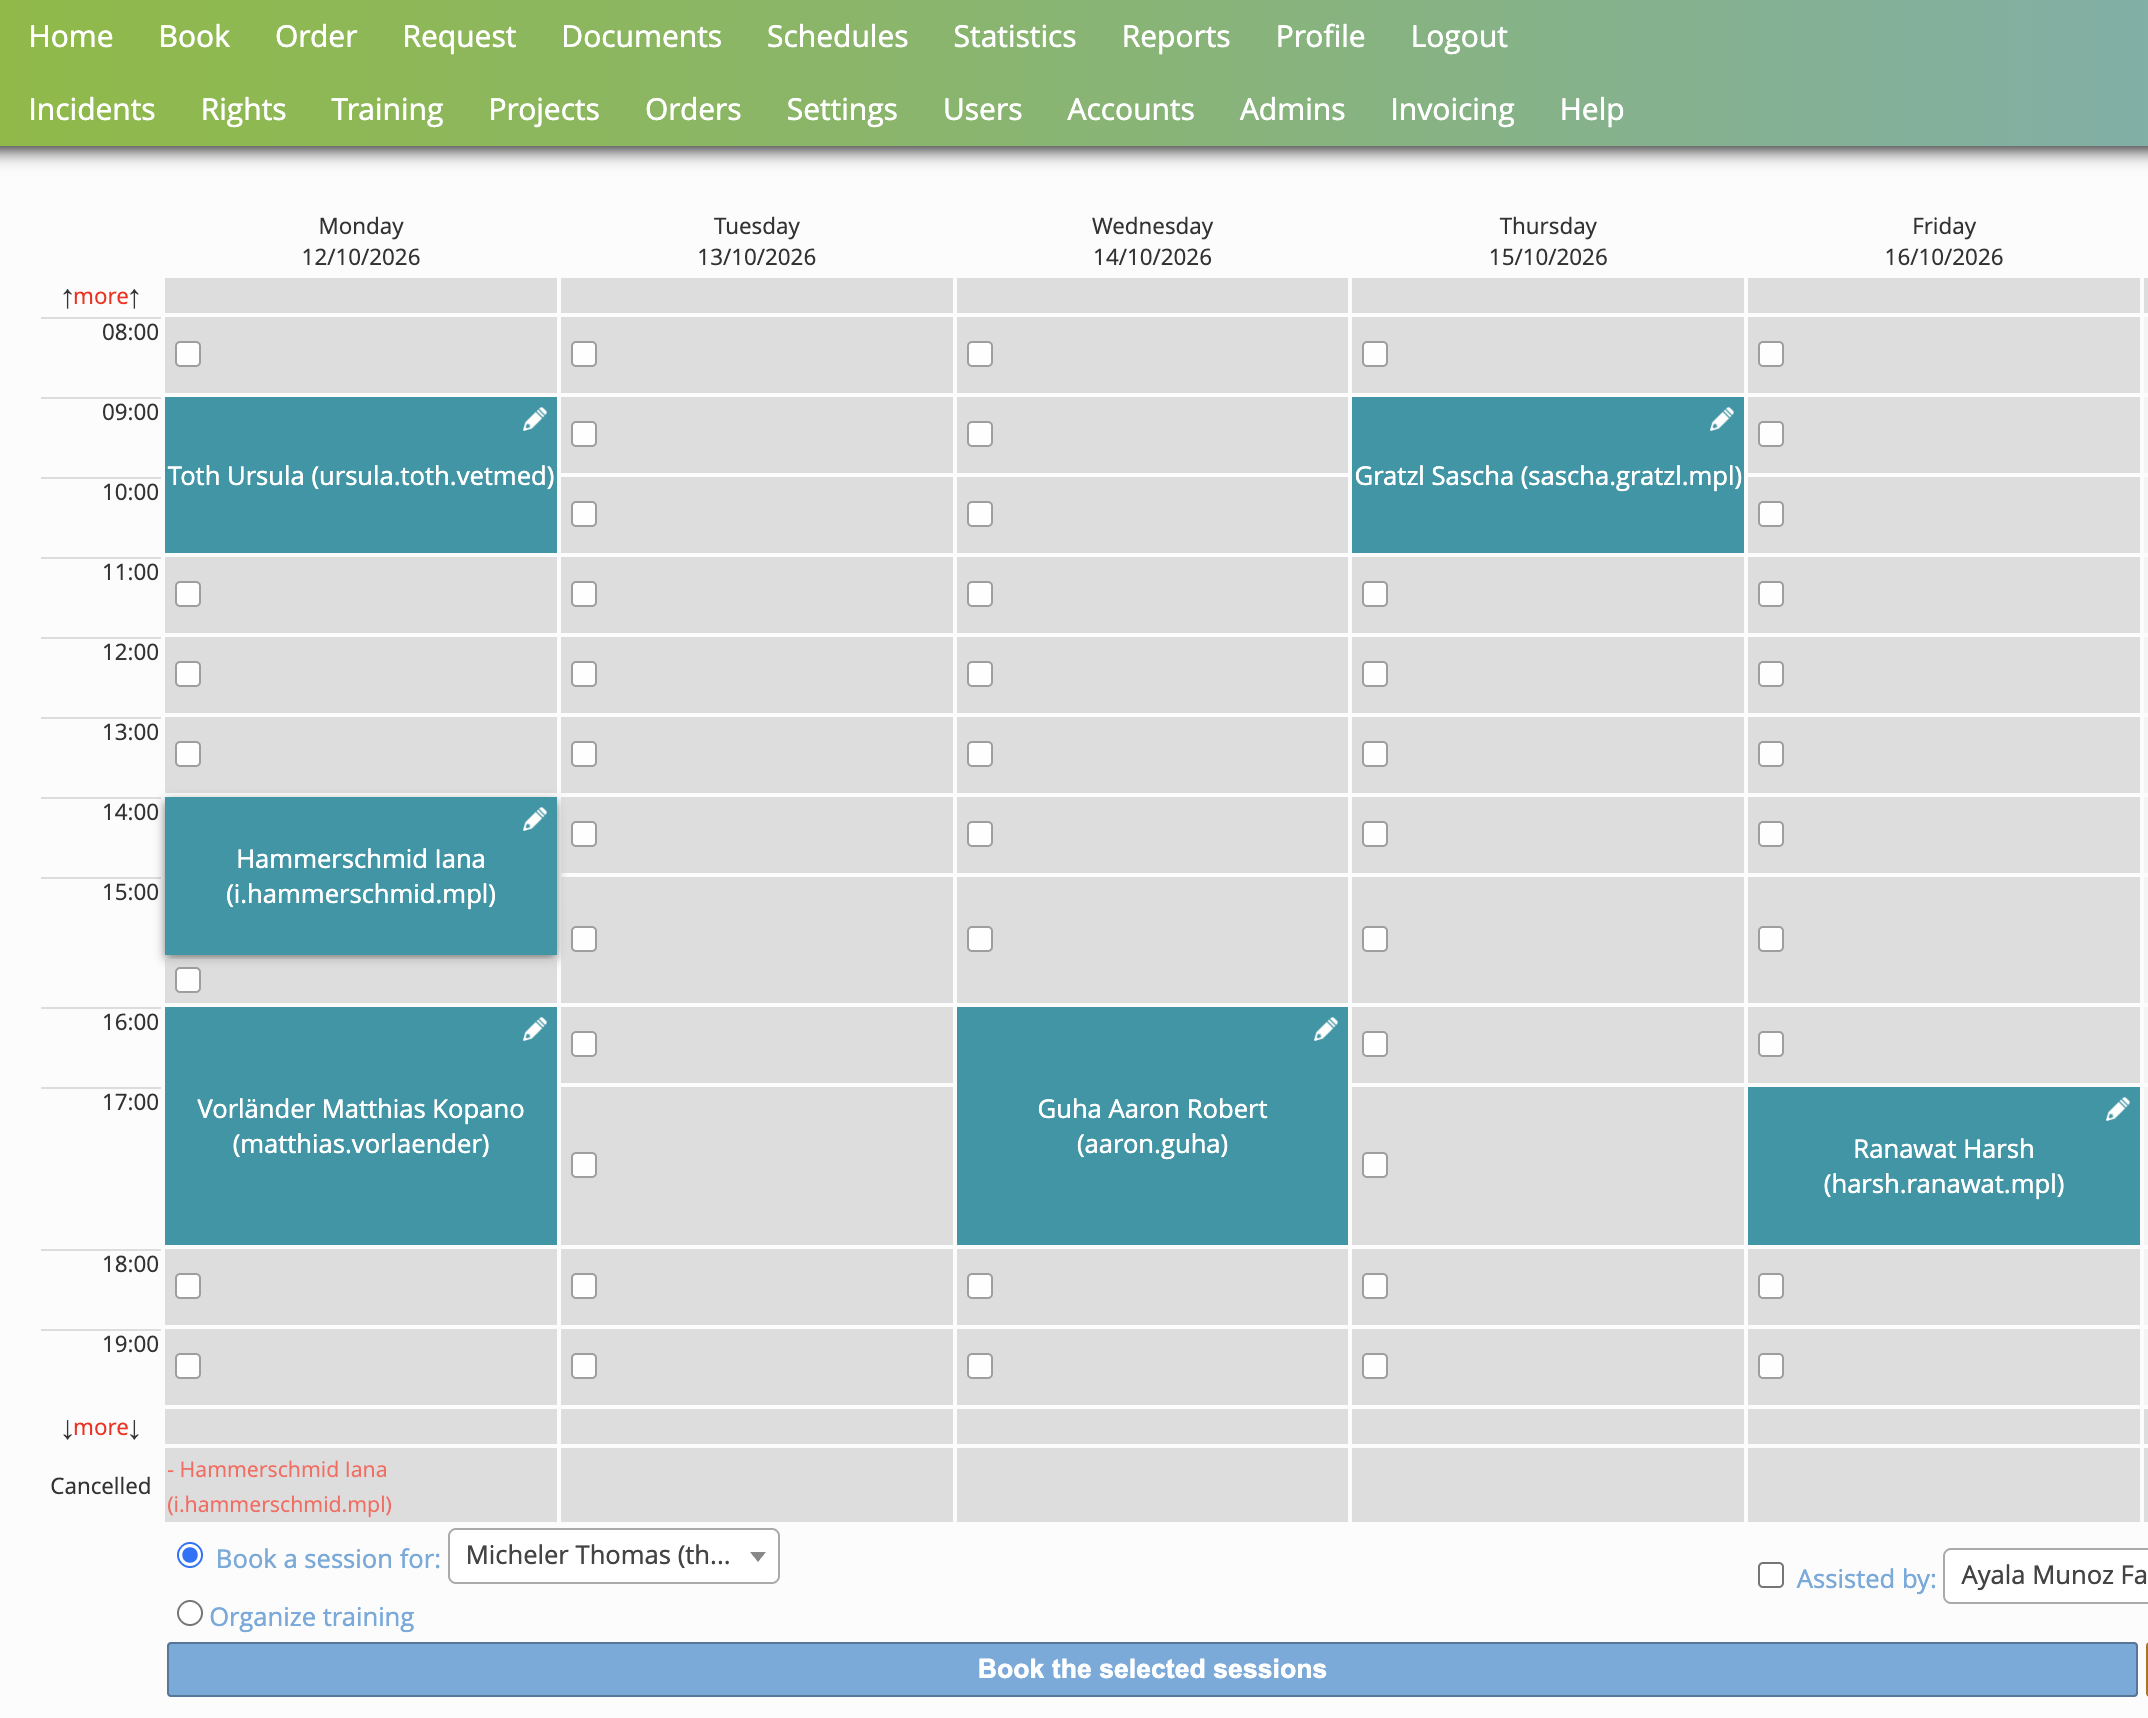
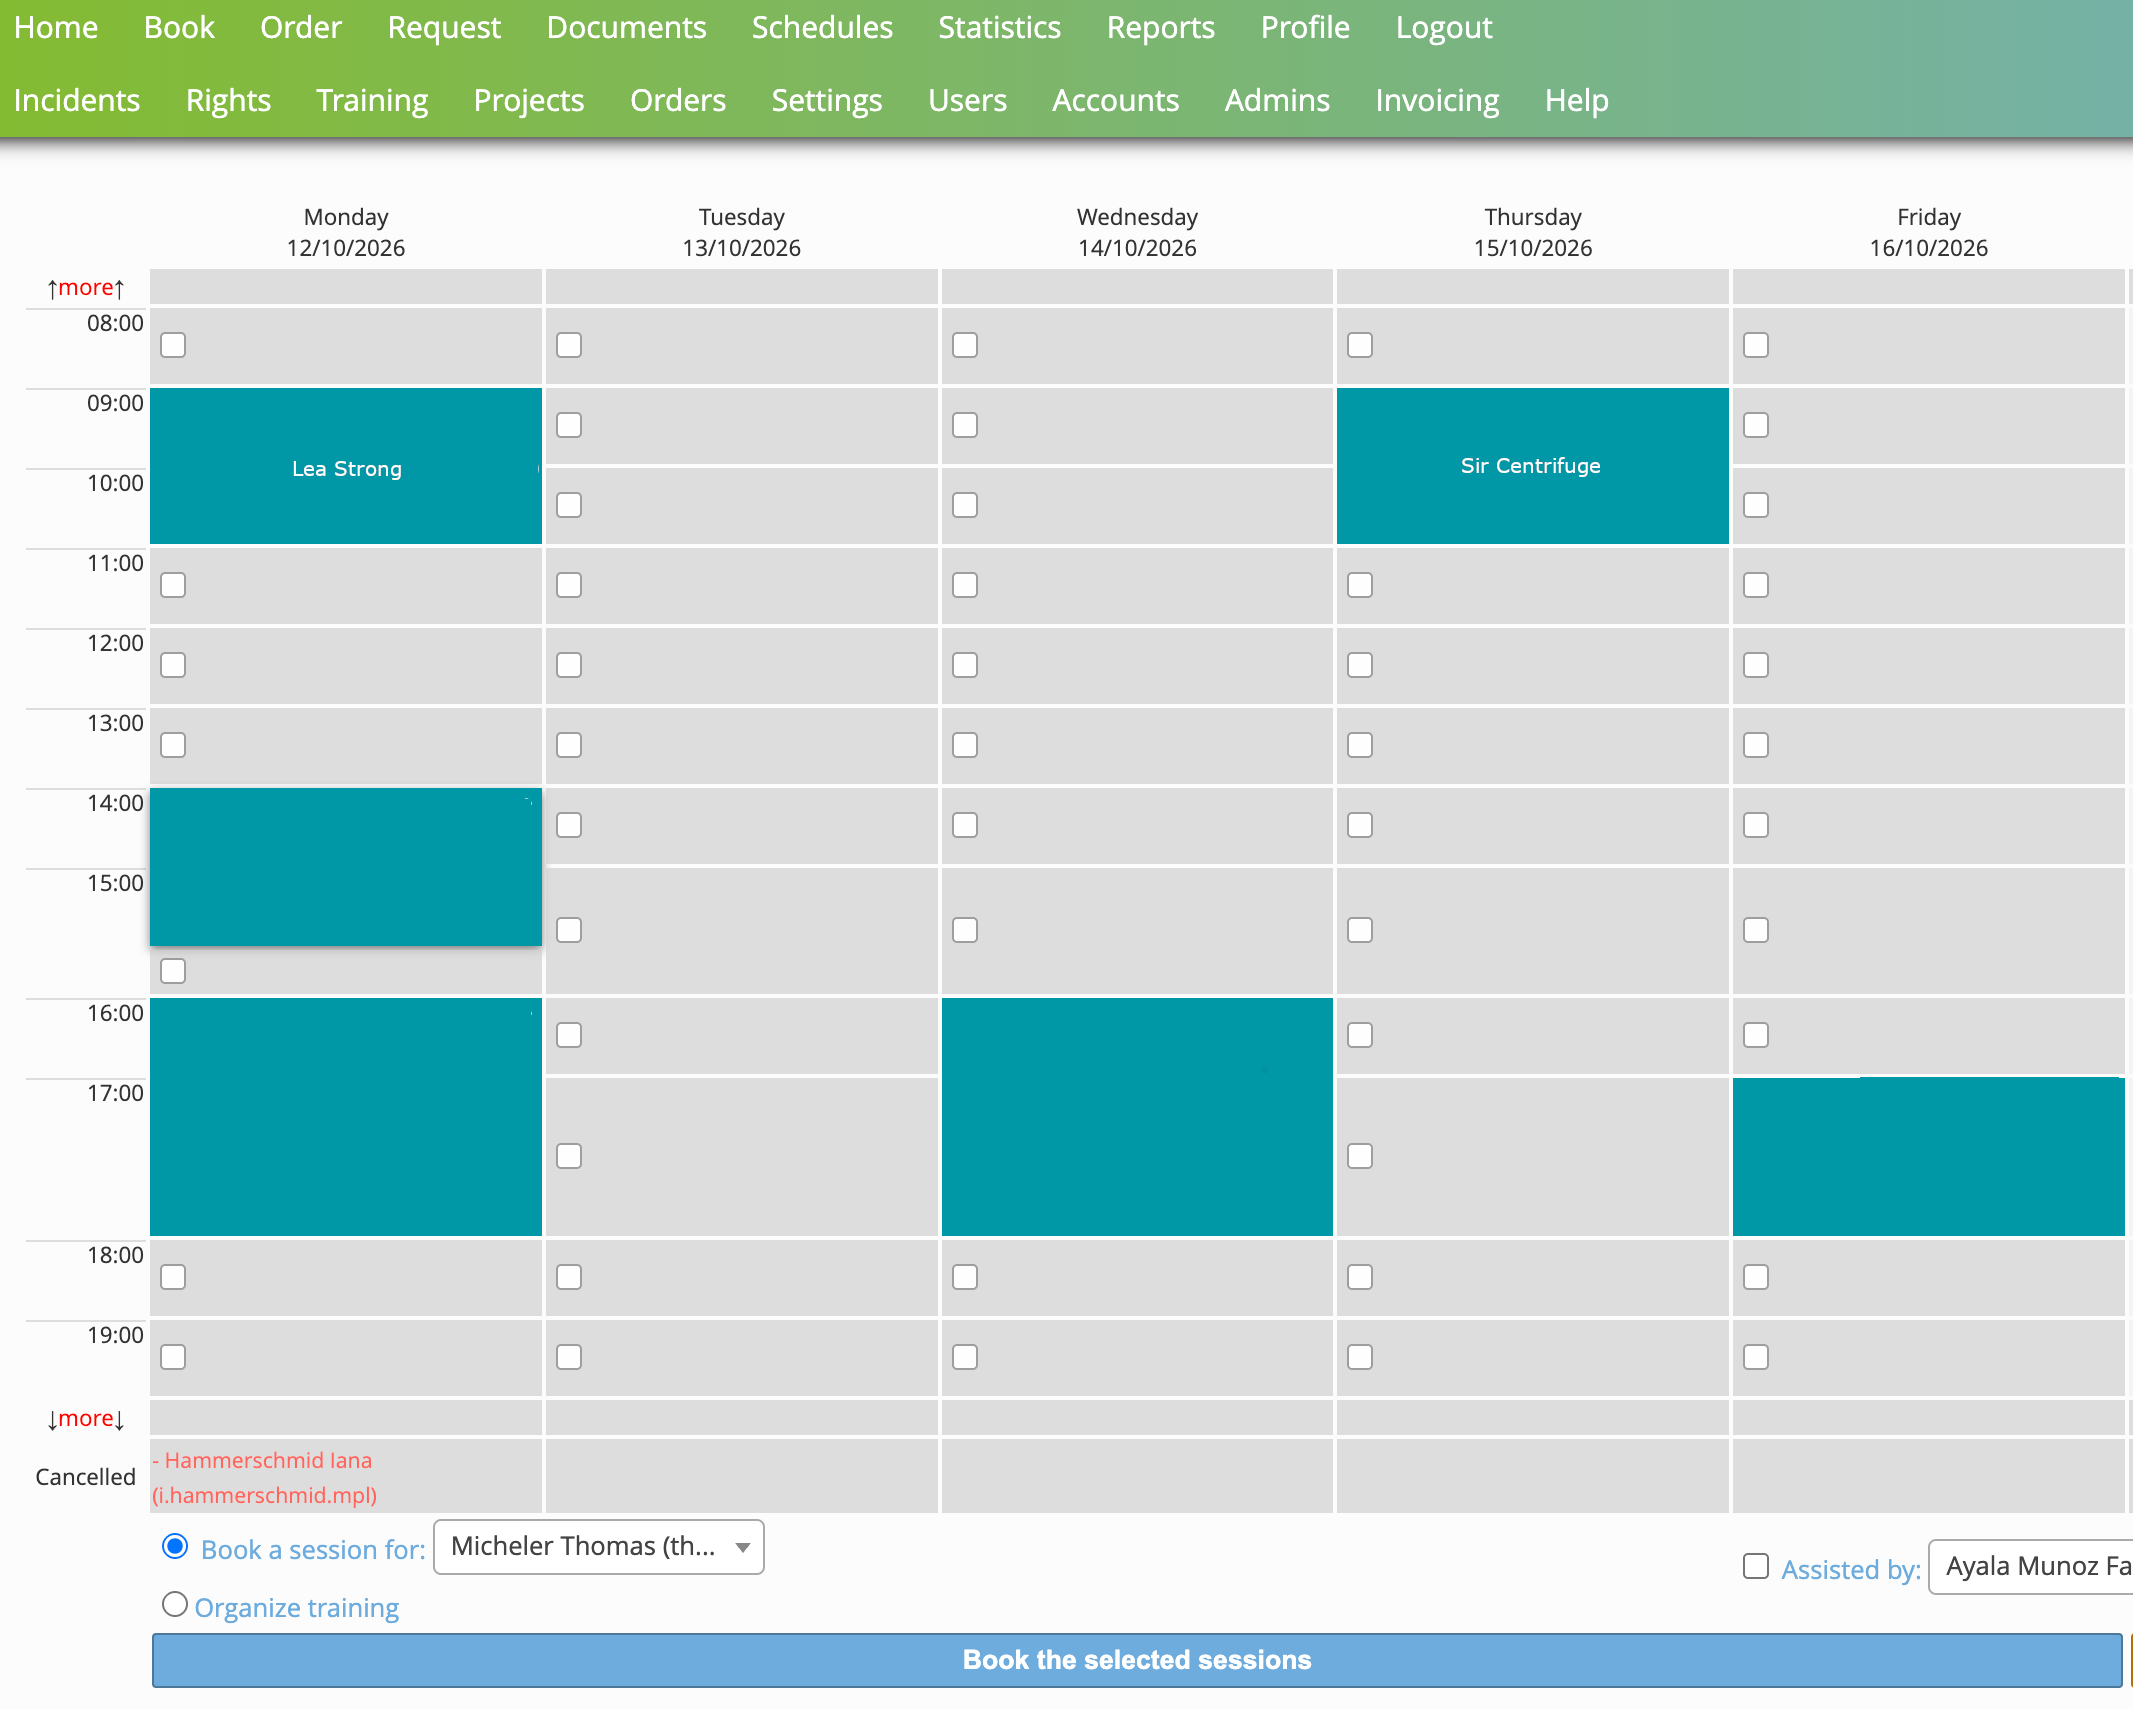
Image quality improved.

Changed region(s): [[0.0312, 0.1234, 1.0, 0.9872], [0.0, 0.0, 1.0, 0.0925]]

diff --git a/index.html b/index.html
@@ -629,7 +629,15 @@
         flex-direction: column;
       }
 
-      .content-section.is-points .points-main {
+      /*
+        Reset actor inset on small screens (must beat :has(...nth-child) rules).
+        Actors stack in normal flow above the copy instead of floating right.
+      */
+      .content-section.is-points .points-main,
+      .content-section.is-points:has(.actors-stack .actor-card:nth-child(2)) .points-main,
+      .content-section.is-points:has(.actors-stack .actor-card:nth-child(3)) .points-main,
+      .content-section.is-points:has(.actors-stack .actor-card:nth-child(4)) .points-main {
+        --points-actor-pad: 0px;
         order: 2;
         padding-right: 0;
       }
@@ -739,13 +747,94 @@
     }
 
     /* Space between short description under the title and the bullet list */
-    .content-section.is-points .points-main > p + .content-list {
+    .content-section.is-points .points-main > p + .content-list,
+    .content-section.is-points .points-main > p + .content-with-aside {
       margin-top: 1.35rem;
     }
 
     .content-section.is-points .points-main > p + .content-list-columns {
       /* Extra drop below the intro copy for two-column topic lists */
       margin-top: 2.35rem;
+    }
+
+    /*
+      List on the left + centered media (GIF) on the right.
+      Used on User Management; spans full content width like the media gallery.
+    */
+    .content-with-aside {
+      display: grid;
+      grid-template-columns: minmax(0, 1.05fr) minmax(220px, 0.95fr);
+      column-gap: 1.25rem;
+      row-gap: 1rem;
+      /* List stays top-left; GIF sits in the right column */
+      align-items: start;
+      box-sizing: border-box;
+      width: calc(100% + var(--points-actor-pad, 0px));
+      max-width: none;
+      margin-right: calc(-1 * var(--points-actor-pad, 0px));
+      min-width: 0;
+    }
+
+    .content-with-aside > .content-list {
+      margin: 0;
+      min-width: 0;
+      align-self: start;
+    }
+
+    .content-aside-gif {
+      display: flex;
+      justify-content: center;
+      align-items: center;
+      align-self: center;
+      justify-self: center;
+      margin: 0;
+      min-width: 0;
+      width: 100%;
+      padding: 0;
+      border: 0;
+      background: transparent;
+      box-shadow: none;
+    }
+
+    .content-aside-gif img {
+      display: block;
+      width: auto;
+      max-width: 100%;
+      height: auto;
+      max-height: min(300px, 38vh);
+      object-fit: contain;
+      object-position: center;
+      border-radius: 0;
+      background: transparent;
+    }
+
+    @media (max-width: 960px) {
+      /* Stacked app layout still keeps side-by-side list|gif when wide enough */
+      .content-with-aside {
+        grid-template-columns: minmax(0, 1fr) minmax(180px, 0.9fr);
+        column-gap: 1rem;
+      }
+    }
+
+    @media (max-width: 720px) {
+      .content-with-aside {
+        grid-template-columns: minmax(0, 1fr);
+        width: 100%;
+        max-width: 100%;
+        margin-right: 0;
+        column-gap: 0;
+      }
+
+      .content-aside-gif {
+        order: -1;
+        justify-self: center;
+        align-self: center;
+        width: min(100%, 420px);
+      }
+
+      .content-aside-gif img {
+        max-height: min(240px, 32vh);
+      }
     }
 
     /*
@@ -1944,12 +2033,14 @@
             <span class="content-kicker">User Management</span>
             <h3>The Unified Customer & Access Hub</h3>
             <p>A unified platform providing a single source of truth for customer identities, user accounts, and role-based access permissions across all core facility applications and touchpoints.</p>
-            <ul class="content-list">
-              <li>Centralized Customer Management</li>
-              <li>Administration of User & Groups</li>
-              <li>Permissions for CF Applications</li>
-              <li>Integration with existing Identity Management</li>
-            </ul>
+            <div class="content-with-aside">
+              <ul class="content-list">
+                <li>Centralized Customer Management</li>
+                <li>Administration of User &amp; Groups</li>
+                <li>Permissions for CF Applications</li>
+                <li>Integration with existing Identity Management</li>
+              </ul>
+            </div>
           
             </div>
           </article>
